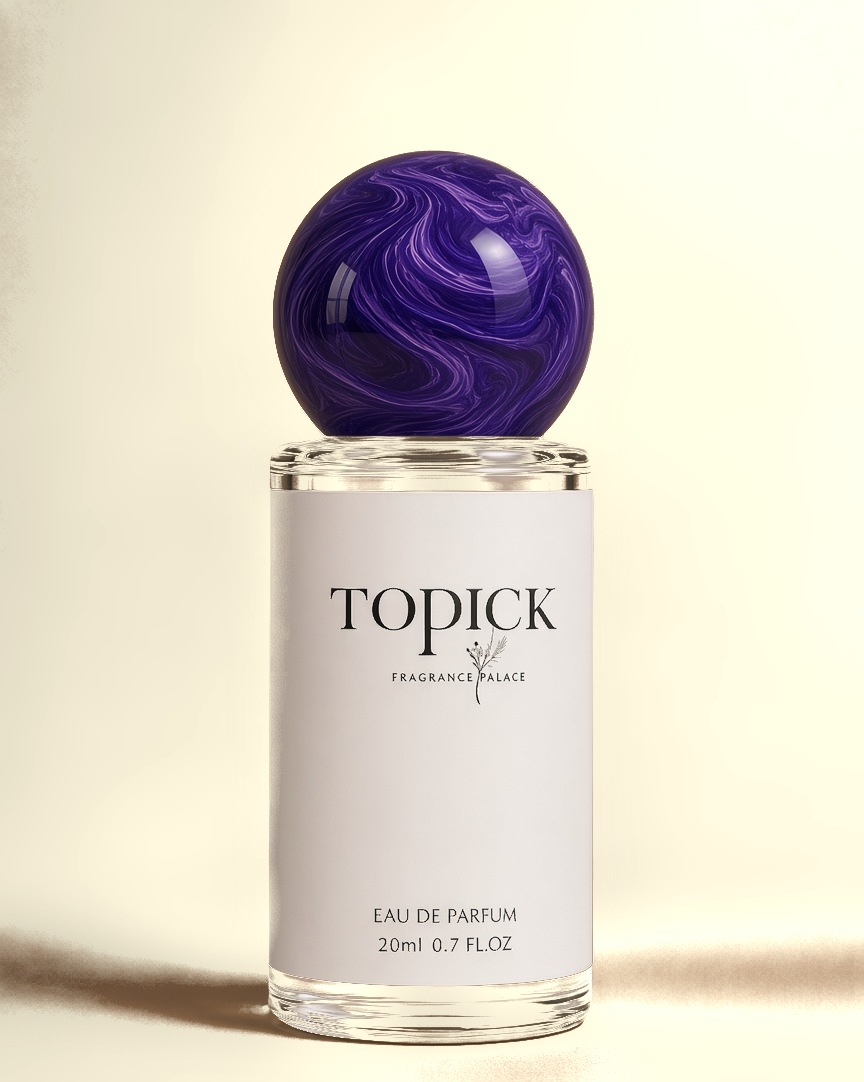
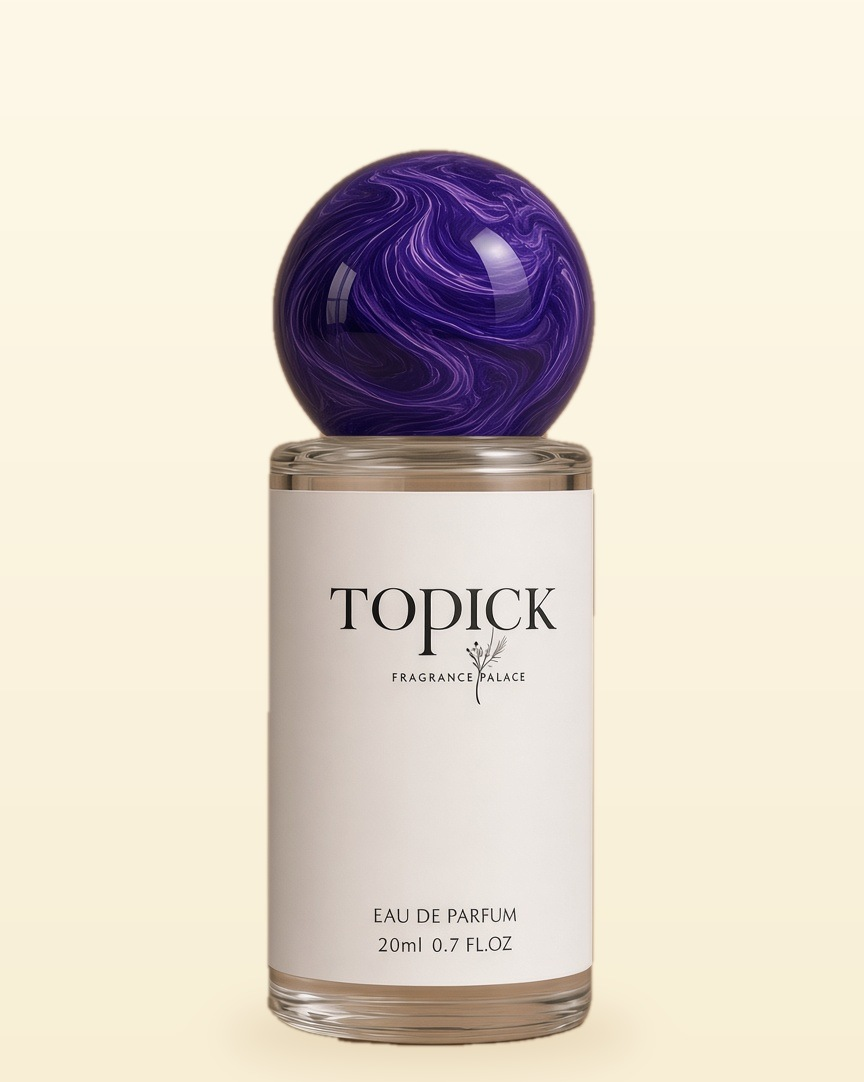
fix: rebuild bottle photos with clean cut-out, start clear preview zoomed in

Changed region(s): [[0.0, 0.3965, 1.0, 1.0], [0.0, 0.0, 0.2812, 0.549]]

diff --git a/components/LabelStep.tsx b/components/LabelStep.tsx
@@ -171,7 +171,7 @@ export function LabelBottlePreview({
   const bottle = capOption(capColor);
   const imageRef = useRef<HTMLImageElement>(null);
   const [ready, setReady] = useState(false);
-  const [zoom, setZoom] = useState(1);
+  const [zoom, setZoom] = useState(1.3); // 透明標籤預覽一開始就放大，客人不用先按「放大」
   const trimmed = labelName.trim();
   const cjk = hasCjk(trimmed);
   const printed = trimmed ? printedName(trimmed) : "AQUA.CHL";
@@ -209,8 +209,8 @@ export function LabelBottlePreview({
           </div>
         </div>
         <div className="bg-[#f3f1ec] p-3 sm:p-4">
-          <div className="mx-auto w-full max-w-md overflow-x-auto">
-            <div style={{ width: `${zoom * 100}%` }}>
+          <div className="mx-auto w-full max-w-md overflow-hidden">
+            <div style={{ transform: `scale(${zoom})`, transformOrigin: "50% 62%" }}>
               <ClearBottlePreview capColor={capColor} labelColor={labelColor} labelName={labelName} className="max-w-none" />
             </div>
           </div>
